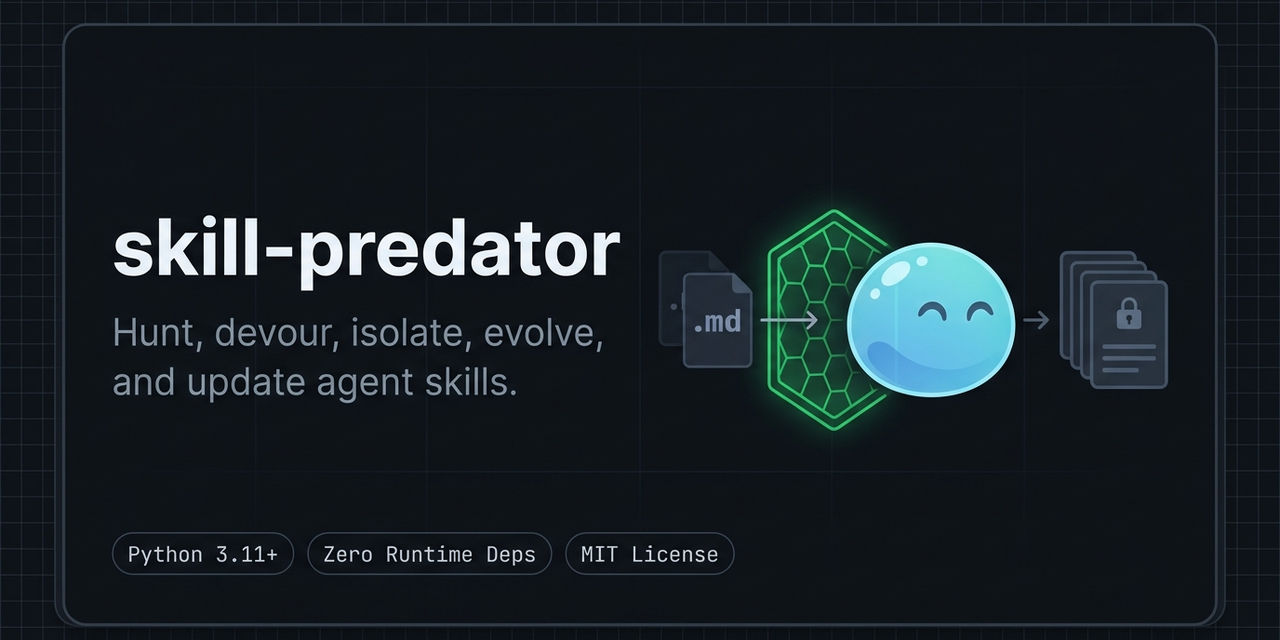
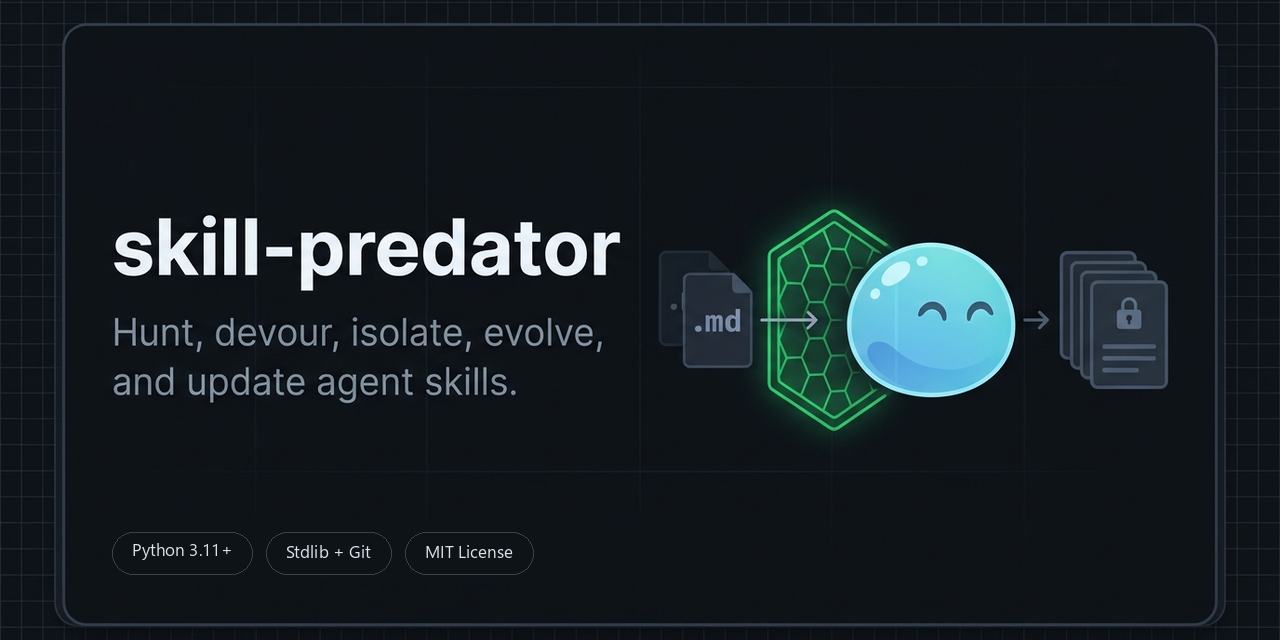
chore: stage final social preview, contributing, and test updates

Changed region(s): [[0.0938, 0.8125, 0.5625, 0.9062]]

diff --git a/tests/test_skill_predator.py b/tests/test_skill_predator.py
@@ -467,6 +467,13 @@ def test_fuse_requires_min_cooccur_even_when_descriptions_overlap(tmp_path: Path
     assert "no pairs with >= 2 shared sessions" in text
 
 
+def test_contributing_allows_devour_to_update_the_lock_file():
+    text = (Path(__file__).resolve().parents[1] / "CONTRIBUTING.md").read_text(encoding="utf-8")
+    assert "may update prey entries in `skills/sources.json`" in text
+    assert "does not edit skill content" in text
+    assert "never modify live `skills/`" not in text
+
+
 def test_skill_spec_says_evolve_only_writes_a_report():
     text = (Path(__file__).resolve().parents[1] / "skills" / "skill-predator" / "SKILL.md").read_text(encoding="utf-8")
     assert "| `evolve` | `reviews/skills/YYYY-MM-DD-evolve.md` | No |" in text

diff --git a/CONTRIBUTING.md b/CONTRIBUTING.md
@@ -5,7 +5,7 @@ PRs and issues are welcome.
 ## Ground rules
 
 - **Zero runtime dependencies:** `skill_predator` uses only the Python 3.11+ standard library and `git` (plus optional `gh` for GitHub search).
-- **Fierce in the stomach, careful in the body:** `hunt`, `devour`, `isolate`, `analyse`, `evolve`, and `update` must never modify live `skills/` or execute scripts, hooks, or installers from devoured packs.
+- **Fierce in the stomach, careful in the body:** `hunt`, `analyse`, `evolve`, and `update` write reports and do not edit `skills/<name>/`. `devour` copies or clones into the stomach and may update prey entries in `skills/sources.json`. It does not edit skill content. Nothing in this tool executes scripts, hooks, or installers from a devoured pack. `isolate` only lists what a pack contains.
 - **No private paths:** Keep defaults cross-platform (`~`, relative workspace paths, or `skill-predator.json`).
 
 ## Development
